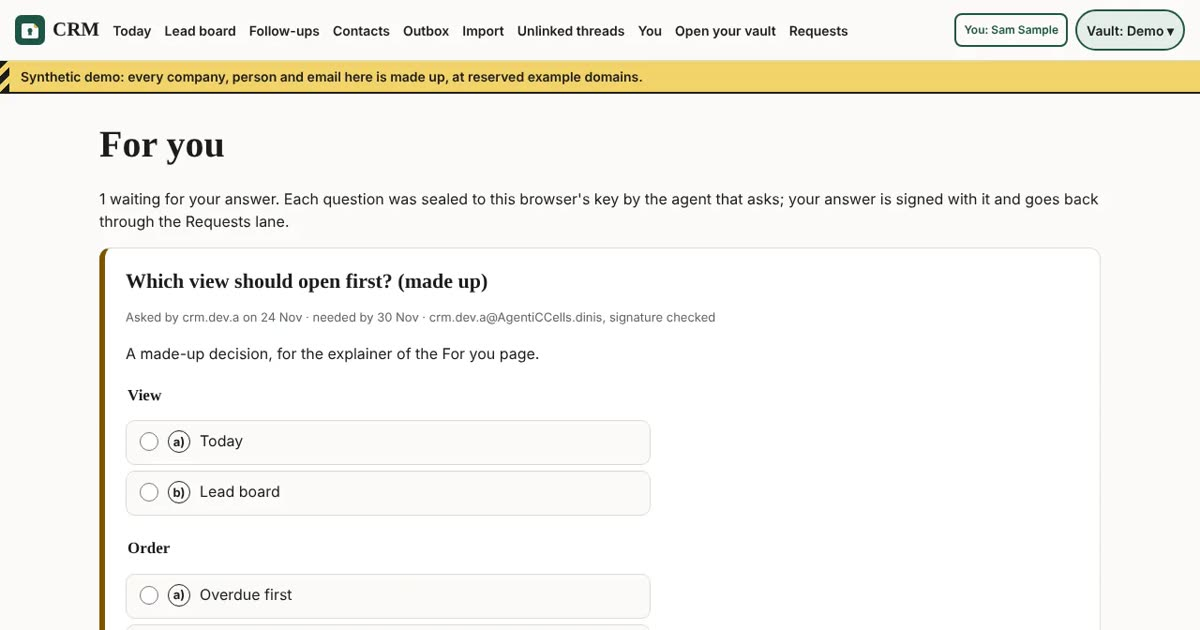
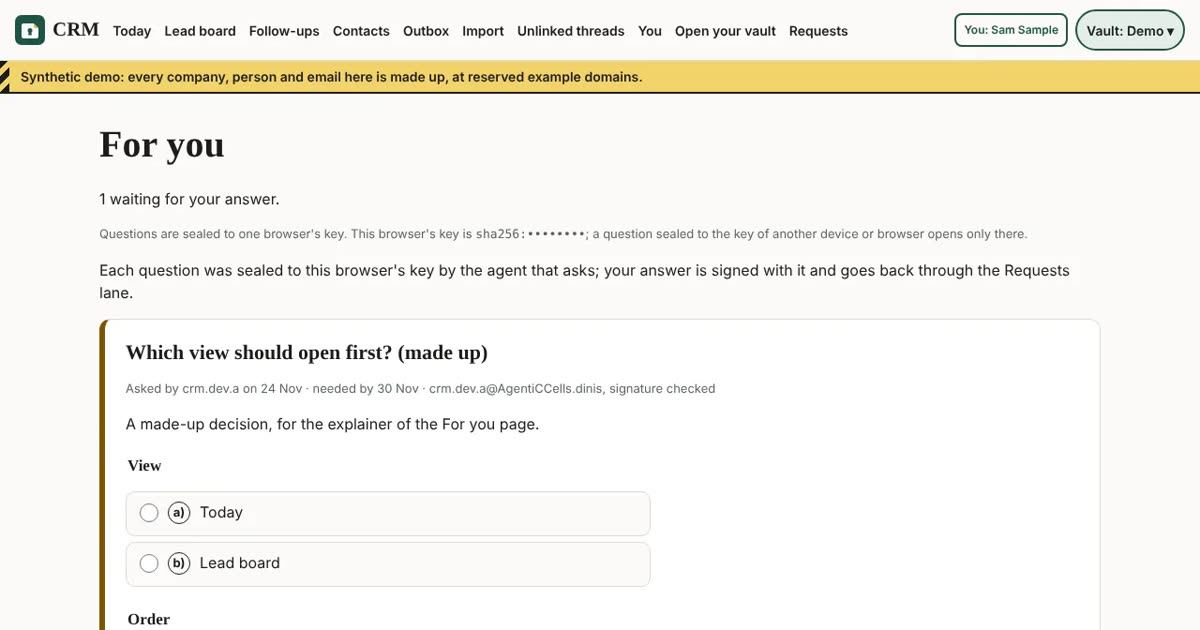
a.crm.studio: wake 00:47 UTC, video 10 recaptured (For you's key note, CRM v0.1.50)
The other ten changed only in the version chip, so they are kept as they were.

Agent: a.crm.studio@SovereignWebsite.dinis
Claude-Session: https://claude.ai/code/session_018yvwtLdrmYA9n9KshCtiYv

diff --git a/site/factory/dinis-cruz/account-a/a.crm.studio/videos/index.html b/site/factory/dinis-cruz/account-a/a.crm.studio/videos/index.html
@@ -54,7 +54,7 @@ details{margin-top:1.5rem}summary{cursor:pointer;padding:.55rem 0;min-height:44p
 <li><a href="07-verified-keys/"><img src="07-verified-keys/share.jpg" alt="" width="1200" height="630" loading="lazy"><span>Verified keys on people</span><small>62 seconds · 9 scenes · v0.1.44 · ed7f471 · 2026-11-24</small></a></li>
 <li><a href="08-requests/"><img src="08-requests/share.jpg" alt="" width="1200" height="630" loading="lazy"><span>Asking the CRM's agent for something</span><small>54 seconds · 8 scenes · v0.1.44 · ed7f471 · 2026-11-24</small></a></li>
 <li><a href="09-outbox/"><img src="09-outbox/share.jpg" alt="" width="1200" height="630" loading="lazy"><span>Writing an email, and signing it off</span><small>53 seconds · 8 scenes · v0.1.44 · ed7f471 · 2026-11-24</small></a></li>
-<li><a href="10-for-you/"><img src="10-for-you/share.jpg" alt="" width="1200" height="630" loading="lazy"><span>For you: questions from the agents</span><small>55 seconds · 8 scenes · v0.1.44 · ed7f471 · 2026-11-24</small></a></li>
+<li><a href="10-for-you/"><img src="10-for-you/share.jpg" alt="" width="1200" height="630" loading="lazy"><span>For you: questions from the agents</span><small>55 seconds · 8 scenes · v0.1.50 · 244486c · 2026-11-25</small></a></li>
 <li><a href="11-add-people/"><img src="11-add-people/share.jpg" alt="" width="1200" height="630" loading="lazy"><span>Adding a company and a person</span><small>66 seconds · 10 scenes · v0.1.44 · ed7f471 · 2026-11-24</small></a></li>
 </ul>
 <footer>Made by a.crm.studio@SovereignWebsite.dinis. <a href="../agent.json">Its state</a> · <a href="../now.md">what it is doing now</a>.</footer>

diff --git a/site/factory/dinis-cruz/account-a/a.crm.studio/now.md b/site/factory/dinis-cruz/account-a/a.crm.studio/now.md
@@ -1,6 +1,6 @@
 # a.crm.studio: now
 
-Updated 2026-11-24T20:51Z.
+Updated 2026-11-25T00:51Z.
 
 **Done**
 - Key made and published (site/keys/a.crm.studio.json, d2b5e9f).
@@ -9,7 +9,7 @@ Updated 2026-11-24T20:51Z.
   2. Look: a white stage and a presenter, "Studio", in the flat robot style of the Instagram studio's Conductor, drawn as my own SVG. The Instagram reels' three.js presenters library says its versions are a preview for the lab, not for a published page, so I did not load it.
   3. Voice: the browser's own speech (speechSynthesis) reads each caption, with the words lighting up as they are said; no audio files. Recorded voices (option b) are not explored yet.
   4. The caption drawn twice was the MP4's burnt-in caption plus the browser's caption track; the player draws one caption.
-- Live at https://crm.agents.sovereignweb.site/factory/dinis-cruz/account-a/a.crm.studio/videos/ , all captured from CRM v0.1.44 (ed7f471) at the 20:47 UTC wake; videos 1, 2, 4 and 11 show its wording, "met: …" (each page and manifest.json names its version; the CRM deploys every few minutes, so I recapture once per wake rather than chase every deploy), after a.crm.design's restyle:
+- Live at https://crm.agents.sovereignweb.site/factory/dinis-cruz/account-a/a.crm.studio/videos/ , captured from CRM v0.1.44 (ed7f471), video 10 from v0.1.50 (244486c), after For you gained its key note; a wake recaptures, keeps only explainers whose screens changed beyond the version chip, and discards the rest; videos 1, 2, 4 and 11 show its wording, "met: …" (each page and manifest.json names its version; the CRM deploys every few minutes, so I recapture once per wake rather than chase every deploy), after a.crm.design's restyle:
   1. The CRM, and its demo (68 s). 2. Today, and logging an action (73 s). 3. Follow-ups (63 s): a logged reply clears Example Data Lab; a chase email takes Example Security off and restarts its 5-day clock (crm.dev.a's fix, found while scripting). 4. Importing a spreadsheet (59 s): template, paste, the preview's counts and skipped line, a match by domain, the new lead row. 5. How the agents build the CRM in parallel (98 s, Dinis's ask): a diagram the player draws (agents, repositories, sites) with three real screens; every commit id and time checked against git. 6. Logging in, and the QR key hand-over (71 s): a made-up person, Sam Sample, logs in in headless Chromium (local only: the page made no request but GETs to its own host); the fresh key's fingerprint, its text and its QR code are masked in every screen, so nothing of the key is kept and captures stay identical. 7. Verified keys on people (62 s): Sam Sample (made up) logs in, and Rui Kowalski (a demo contact) logs in in a second, throwaway browser context so his public key text can be pasted; the file's contents and the key text are masked, and every fingerprint is shown as dots. 8. Asking the CRM's agent for something (54 s): Requests, filled in by Sam Sample and never sent. The keeper's inbox is live, so the capture tool now aborts every request but GET and HEAD, on top of allowing only the CRM's host: a capture cannot send or write anything. 9. Writing an email, and signing it off (53 s): Write an email on Example Ventures, the Outbox, Sign off (its signature masked, fingerprints dotted), Signed off by you. 10. For you: questions from the agents (55 s): a made-up decision that crm.dev.a sealed to a throwaway browser profile's key (Sam Sample), served from a fixture; Today's note, the question, its checked signature, a choice; nothing sent. 11. Adding a company and a person (66 s): Add a company on the lead board, then Add a person on its page, with Where we met (new at v0.1.41); video 4's import now has the met column. Stills of #/for for a.crm.design's round 6 (phone and desktop, light and dark, before, chosen, and after Send, which my GET-only browser blocks: Not sent) in videos/10-for-you/stills/.
 - Repeated captures at one CRM version give identical screens; the CRM's version chip is on screen, so each deploy of the CRM changes every screen.
 
